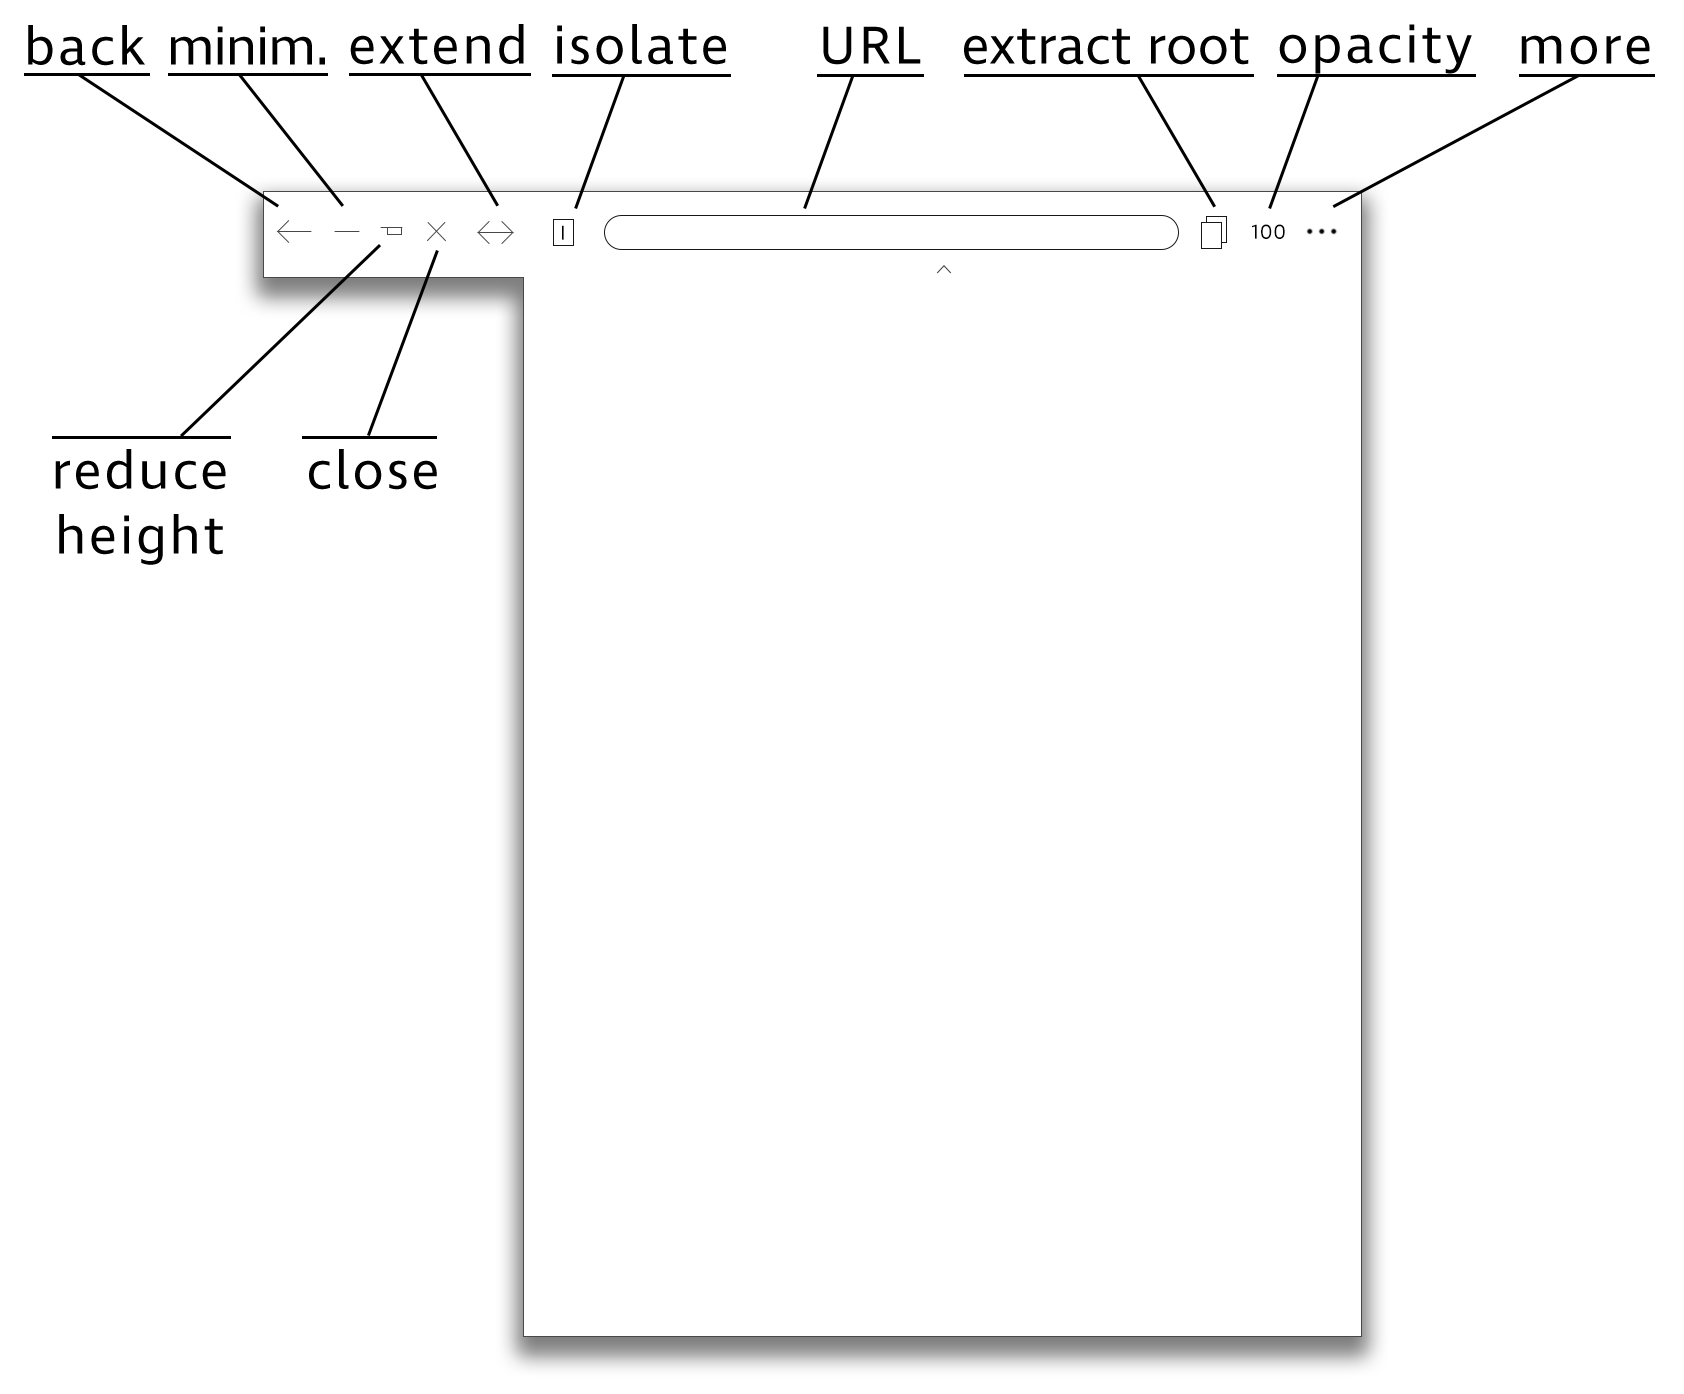
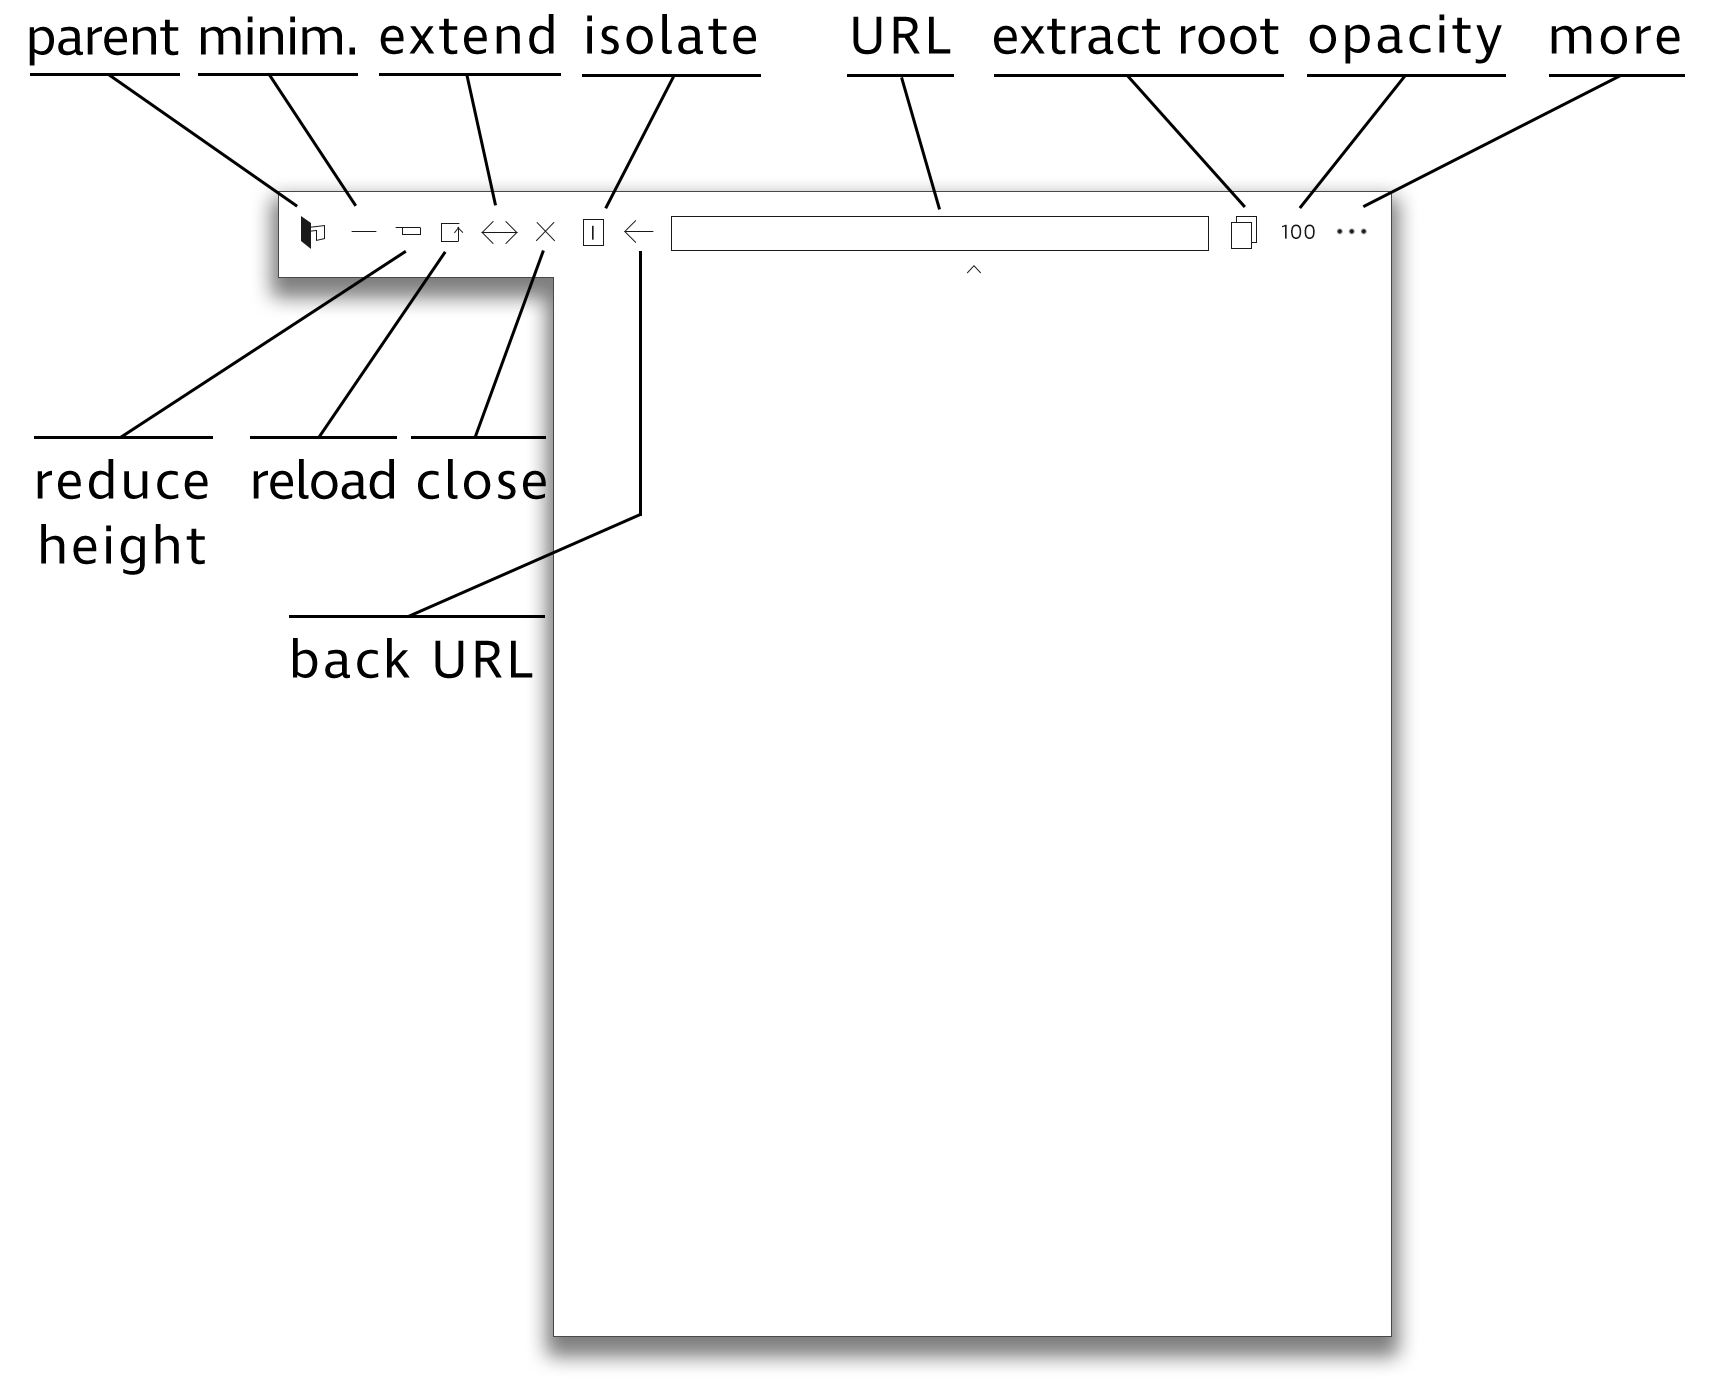
Note: controls, shortcuts update

diff --git a/notes/Features.md b/notes/Features.md
@@ -7,73 +7,75 @@
 
 ## Behavior
 
-+ Double-clicking any `<plurid-sheet>`, `<plurid-sheet-double>`, `<plurid-solid>` makes the plane normal to the camera and hides everything else. Transforming (translation/rotation/scale) brings everything back into display.
++ Double-clicking any `<plurid-sheet>`, `<plurid-sheet-double>` plane, or `<plurid-solid>` plane makes the plane normal to the camera and hides everything else (hidden status controlled through `<plurid-options>`). Rotation transformation brings everything back into display.
 
 + When clicking a `<plurid-insertion>` link the `<plurid-content>` is animated, moved and centered normal to the camera.
 
-+ In the case of multiple `<plurid-root>`s, each can be transformed (rotation, translation, scale) separately by selecting only a specific `<plurid-root>`, or all the `<plurid-root>`s can be transformed simultaneously by selecting the `<plurid-roots>` space (hence, deselecting all the individual `<plurid-root>`s);
++ In the case of multiple `<plurid-root>`s, each can be transformed (rotation, translation, scale) separately by selecting only a specific `<plurid-root>`, or all the `<plurid-root>`s can be transformed simultaneously by selecting the `<plurid-roots>` space (hence deselecting all the individual `<plurid-root>`s);
 
 
 
 ### Options in `<plurid-options>`
 
-+ buttons: rotation;
++ buttons :: rotation;
 
-+ buttons: translation;
++ buttons :: translation;
 
-+ buttons: scale;
++ buttons :: scale;
 
-+ translation/rotation/scale sensitivity slider;
++ button :: insert other `<plurid-root>`s on the left and right of the main `<plurid-root>`, each 3D transformable on it's own;
 
-+ color-picker: `<plurid-container>` background color changer;
++ more -> slider :: sensitivity of translation, rotation, and scale;
 
-+ color-picker: color theme for `<plurid-bridge>` (dynamic option to use the dominant color of the web page it has in the `<plurid-scion>`);
++ more -> color-picker :: `<plurid-container>` background color changer;
 
-+ checkmark: use scroll to translate;
++ more -> color-picker :: color theme for `<plurid-bridge>` (dynamic option to use the dominant color of the web page it has in the `<plurid-scion>`);
 
-+ checkmark: clicking a `<plurid-insertion>` link transforms the targetted `<plurid-content>` in order to face it from the normal vector (default on);
++ more -> checkmark :: clicking/tapping a `<plurid-insertion>` link transforms the targetted `<plurid-content>` to the normal view (default on);
 
-+ checkmark: when clicking a `<plurid-insertion>` link or double-clicking any plurid structure everything else has opacity reduced to 0% (isolate mode on always) (default off);
++ more -> slider :: opacity of the `plurid` parent after clicking/tapping on a `<plurid-insertion>` link (5–100%, default 80%) [rotation brings it back to 100%];
 
-+ slider: reduce opacity of the `plurid` parent after clicking on a `<plurid-branch>` to 0–100%;
++ more -> slider :: opacity of everything else after double-clicking/tapping on a `<plurid-content>` (5–100%, default 80%) [rotation brings it back to 100%];
 
-+ list of modifiable shortcuts;
++ more -> checkmark :: use scroll without modifier to translate;
 
-+ button: insert other `<plurid-root>`s on the left and right of the main `<plurid-root>`, each 3D transformable on it's own;
++ more -> list of modifiable shortcuts;
 
 
 
 ### Controls in `<plurid-controls>`
 
-+ button: back to the parent `plurid`;
++ button :: bring the parent `plurid` to normal view;
 
-+ button: minimize the current `<plurid-sheet>` plane;
++ button :: minimize the current `<plurid-sheet>` plane;
 
-+ button: reduce height of the current `<plurid-sheet>` plane to the current height of the viewport;
++ button :: reduce height of the current `<plurid-sheet>` plane to the current height of the viewport;
 
-+ button: close the current `<plurid-sheet>` plane;
++ button :: reload the current `<plurid-sheet>` plane;
 
-+ button: extend the `<plurid-bridge>`;
++ button :: extend the `<plurid-bridge>`;
 
-+ button: isolate the current `<plurid-branch>`;
++ button :: close the current `<plurid-sheet>` plane;
 
-+ input: URL of the current `<plurid-branch>`;
++ button :: isolate the current `<plurid-branch>`;
 
-+ button: extract the current `<plurid-branch>` to a separate, different `<plurid-root>`;
++ input :: URL of the current `<plurid-branch>`;
 
-+ opacity slider (lower-limited to 3%);
++ button :: extract the current `<plurid-branch>` to a separate `<plurid-root>`;
 
-+ move -> button: open the current `<plurid-branch>` in new tab;
++ slider :: opacity of the current `<plurid-branch>` (lower-limited to 3%);
 
-+ more -> button: flip the `<plurid-branch>` to the other side of the `<plurid-insertion>`;
++ more -> button :: open the current `<plurid-branch>` in new tab;
 
-+ more -> button: flip the content to the other side (revert content in the case of `<plurid-sheet-double>`, unusable in case of `<plurid-solid>`);
++ more -> button :: flip the `<plurid-branch>` to the other side of the `<plurid-insertion>`;
 
-+ more -> button: opaque back (in case of `<plurid-sheet>`);
++ more -> button :: flip the content to the other side (revert content in the case of `<plurid-sheet-double>`, unusable in case of `<plurid-solid>`);
 
-+ more -> slider for angle to the parent `plurid` (default 90 degrees);
++ more -> button :: opaque back (in case of `<plurid-sheet>`);
 
-+ more -> button: reset to default;
++ more -> slider :: angle to the parent `plurid` (default 90 degrees);
+
++ more -> button :: reset to default;
 
 <p align="center">
     <img src="https://raw.githubusercontent.com/plurid/plurid.js/master/notes/Images/plurid-branch.png" height="500px">
@@ -89,22 +91,38 @@
 
 + `ctrl/cmd + mouse-movements (up/down)` :: scale;
 
-+ `alt/opt + i` :: isolate current `plurid`;
++ `alt/opt + p` :: bring the parent of the current `plurid` to normal view;
 
 + `alt/opt + m` :: minimize current `plurid`;
 
++ `alt/opt + h` :: reduce height of current `plurid`;
+
++ `alt/opt + r` :: reload current `plurid`;
+
++ `alt/opt + e + left-arrow/right-arrow` :: extend the `<plurid-bridge>` of the current `plurid`;
+
 + `alt/opt + x` :: close current `plurid`;
 
-+ `alt/opt + r` :: extract the current `plurid` to a separate, different `<plurid-root>`;
++ `alt/opt + i` :: isolate current `plurid`;
+
++ `alt/opt + b` :: back to the previous page within the same `plurid`;
+
++ `alt/opt + s` :: activate the `plurid` URL input;
+
++ `alt/opt + t` :: extract the current `plurid` to a separate `<plurid-root>`;
 
 + `alt/opt + n` :: open current `plurid` in new tab;
 
-+ `alt/opt + 1` :: transform to center on front plane;
++ `alt/opt + f` :: flip the `<plurid-branch>` to the other side of the `<plurid-insertion>`;
 
-+ `alt/opt + 2` :: transform to center on right plane;
++ `alt/opt + v` :: flip the content to the other side (revert content in the case of `<plurid-sheet-double>`, unusable in case of `<plurid-solid>`);
 
-+ `alt/opt + 3` :: transform to center on back plane;
++ `alt/opt + 1` :: transform to normal view front plane;
 
-+ `alt/opt + 4` :: transform to center on left plane;
++ `alt/opt + 2` :: transform to normal view right plane;
 
-+ `double-click/tap` :: transform to center on the clicked/tapped `plurid` plane;
++ `alt/opt + 3` :: transform to normal view back plane;
+
++ `alt/opt + 4` :: transform to normal view left plane;
+
++ `double-click/tap` :: transform to normal view the clicked/tapped `<plurid-content>` plane;

diff --git a/notes/Architecture.md b/notes/Architecture.md
@@ -2,37 +2,39 @@
 
 # Architecture
 
-- `<plurid-container>` :: in general, contains everything on the web page and so it is a direct and possibly the only child of `<body>`.
+- `<plurid-container>` :: in general, contains everything on the web page and so it is a direct and possibly the only child of `<body>`, except `<script>`(s).
+
+    It has the children `<plurid-roots>` and `<plurid-options>`.
 
     It provides the context for 3D transformations (rotation, translation, scale).
 
     In special cases, a web page can have multiple `<plurid-container>`s.
 
-    Can have the attribute `optionsless`.
+    It can have the attribute `optionsless`, removing the child `<plurid-options>`.
 
 
 - `<plurid-roots>` :: contains one or more `<plurid-root>`s.
 
-    Can be transformed (rotation, translation, scale) by itself, transforming all the `<plurid-root>`s it contains.
+    It can be transformed (rotation, translation, scale) by itself, transforming all the `<plurid-root>`s it contains.
 
 
 - `<plurid-root>` :: content container.
 
-    Contains `<plurid-sheet>`, `<plurid-sheet-double>`, or `<plurid-solid>`.
+    It has the children `<plurid-sheet>`, `<plurid-sheet-double>`, or `<plurid-solid>`.
 
     Each `<plurid-root>` can be transformed (rotation, translation, scale) independently, or by transforming the `<plurid-roots>` parent container.
 
 
 - `<plurid-branch>` :: additional content container.
 
-    Can be inserted into the `<plurid-root>`'s `<plurid-content>` or into another `<plurid-branch>`'s `<plurid-content>`.
+    It can be inserted into the `<plurid-root>`'s `<plurid-content>` or into another `<plurid-branch>`'s `<plurid-content>`.
 
-    It appears at an angle of 90 degrees from the generating plane. It can be flipped to the other side or the angle can be changed.
+    It appears at an angle of 90 degrees from the generating plane (default). It can be flipped to the other side or the angle can be changed.
 
     It is composed of:
     + `<plurid-insertion>` :: the insertion point/space;
     + `<plurid-bridge>` :: the connection between the two `plurid`s, can be extended for a better spatiation;
-    + `<plurid-scion>` :: content container. Contains `<plurid-sheet>`, `<plurid-sheet-double>`, or `<plurid-solid>`.
+    + `<plurid-scion>` :: content container. It contains `<plurid-sheet>`, `<plurid-sheet-double>`, or `<plurid-solid>`.
 
 
 
@@ -40,7 +42,7 @@
 
 - `<plurid-sheet>` :: a plane that contains `<plurid-content>` on one side.
 
-    Can have the attributes: `controlsless`, `unresizable`.
+    It can have the attributes: `controlsless`, `unresizable`.
 
 
 - `<plurid-sheet-double>` :: a plane that contains `<plurid-content>` on both sides.
